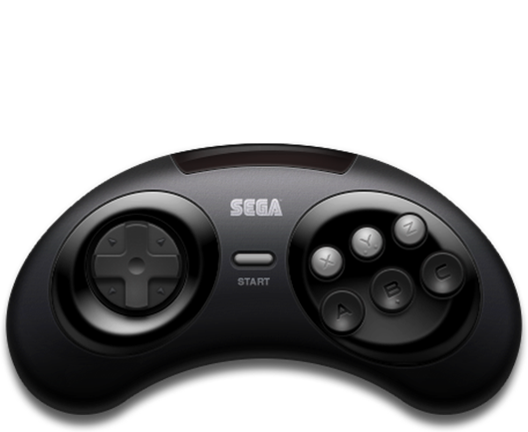
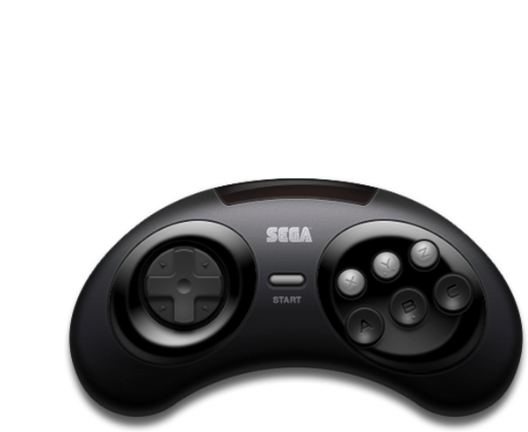
small changes

diff --git a/components/ConsolesList.qml b/components/ConsolesList.qml
@@ -120,6 +120,7 @@ FocusScope {
                     Component {
                         id: videoPreviewWrapper
 
+                        //todo: only load video size corresponding to screen size
                         Video {
                             id: videocomponent
 
@@ -247,19 +248,19 @@ FocusScope {
                             id: consoleViewDelegate
 
                             Image {
-                                id: gameCover
+                                id: consoleController
 
-                                height: ListView.isCurrentItem ? vpx(300) : vpx(70)
-                                width: ListView.isCurrentItem ? vpx(200) : vpx(100)
+                                // height: ListView.isCurrentItem ? vpx(300) : vpx(70)
+                                width: ListView.isCurrentItem ? vpx(250) : vpx(70)
 
                                 fillMode: Image.PreserveAspectFit
                                 source: "../assets/images/controllers/" + modelData.shortName + ".png"
                                 asynchronous: true
 
                                 anchors.bottom: parent.bottom
-                                anchors.leftMargin: -50
                                 Behavior on height { NumberAnimation { duration: 100 } }
                             }
+
 
                         }
 

diff --git a/components/HorizontalList.qml b/components/HorizontalList.qml
@@ -267,8 +267,9 @@ FocusScope {
                         Keys.onPressed: {
                             if (api.keys.isAccept(event))
                             {
-                                currentGame.launch()
                                 event.accepted = true;
+                                currentGame.launch()
+
                             }
                             if (api.keys.isCancel(event))
                             {

diff --git a/components/LaunchingConsole.qml b/components/LaunchingConsole.qml
@@ -8,7 +8,7 @@ FocusScope {
         onStateChanged:{
             if (state === 'launching_console')
             {
-                consoleStartupVideo.source === "" ? root.state = "games" : consoleStartupVideo.play()
+                consoleStartupVideo.status === MediaPlayer.InvalidMedia ? root.state = "games" : consoleStartupVideo.play()
             }
         }
 
